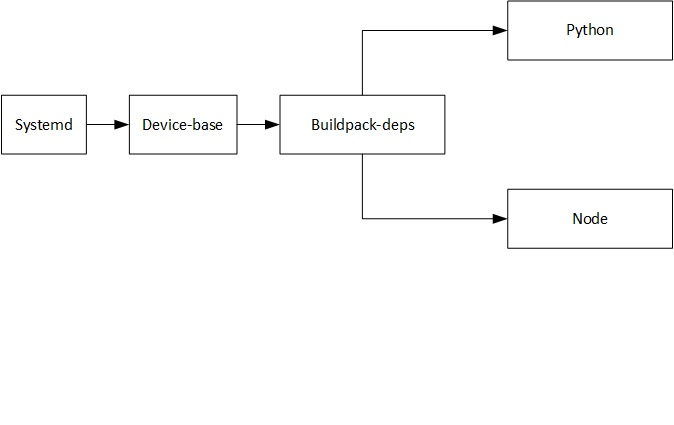
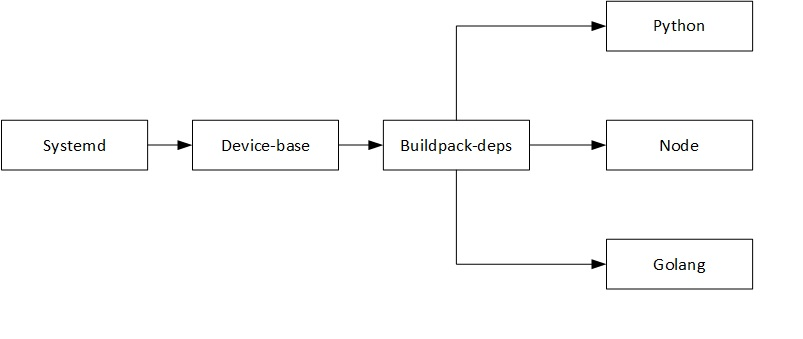
Add Changelog

diff --git a/README.md b/README.md
@@ -1,7 +1,7 @@
 # Resin.io systemd base images
 
 ## Description
-This repository contains Dockerfiles of the Resin systemd base images. The images are organised as a tree structure to serve each device type supported by Resin. For more details on how the images fit together as a tree, see the full document: [resin image trees][resin-image-trees]
+This repository contains Dockerfiles of the Resin systemd base images. The images are organised as a tree structure to serve each device type supported by Resin. For more details on how the images fit together as a tree, see the full document: [Resin Base Images][resin-image-trees]
 
 ## Directory Structure
 
@@ -12,6 +12,7 @@ This repository contains Dockerfiles of the Resin systemd base images. The image
 * Buildpack-deps: The buildpack-deps image for each device type. Details about buildpack-deps can be found [here][resin-buildpack-deps-link]
 * Node: The Node.js buildpack image for Node.js apps for each device type. Details about the Node.js image can be found [here][resin-node-link]
 * Python: The Python buildpack image for Python apps for each device type.
+* Golang: The Golang buildpack image for Go apps for each device type. Details about the Golang image can be found [here][resin-golang-link]
 
 ## Contribute
 
@@ -29,9 +30,10 @@ If you're having any problem, please [raise an issue][issue-tracker] on GitHub.
 * [i386 base image][i386-debian] (Ex: intel edison).
 * [amd64 base image][amd64-debian] (Ex: intel nuc)
 
-[resin-image-trees]:http://docs.resin.io/#/pages/configuration/resin-image-trees.md
+[resin-image-trees]:http://docs.resin.io/#/pages/runtime/resin-base-images.md
 [resin-buildpack-deps-link]:http://docs.resin.io/#/pages/runtime/resin-base-images.md#buildpack-deps
 [resin-node-link]:http://docs.resin.io/#/pages/runtime/resin-base-images.md#node
+[resin-golang-link]:http://docs.resin.io/#/pages/runtime/resin-base-images.md#golang
 [source-code]:https://github.com/resin-io-library/base-images
 [issue-tracker]:https://github.com/resin-io-library/base-images/issues
 [i386-debian]:https://github.com/resin-io-library/resin-i386-debian

diff --git a/CHANGELOG.md b/CHANGELOG.md
@@ -1,0 +1,103 @@
+# Change Log
+
+All notable changes to this project will be documented in this file.
+This project adheres to [Semantic Versioning](http://semver.org/).
+
+## 2015-10-13
+
+### Changed
+
+- Fix Go binary file name when download.
+
+
+## 2015-10-08
+
+### Changed
+
+- Add Golang images to base images.
+- Install mandatory packages: `python-virtualenv, python-setuptools` on python images.
+
+
+## 2015-09-22
+
+### Changed
+
+- Add images for new board: ts-4900.
+
+
+## 2015-09-11
+
+### Changed
+
+- Add `0.10.22` as default version to node images.
+- Add images for new boards: odroid-c1 odroid-ux3.
+- Add Node v4.0.0 to node images.
+- Fix issue with npm config on node images.
+
+
+## 2015-09-09
+
+### Changed
+
+- Fix bug with working directory of systemd service unit.
+- Add images for new boards: via-vab820-quad, zynq-xz702.
+
+## 2015-07-31
+
+### Changed
+
+- Mount /sys/kernel/debug FS on edison images.
+
+
+## 2015-07-31
+
+### Changed
+
+- Mount /sys/kernel/debug FS on edison images.
+
+
+## 2015-07-25
+
+### Changed
+
+- Stop installing systemd on wheezy images.
+
+
+## 2015-07-14
+
+### Changed
+
+- No longer support sid images.
+- Fix expired beaglebone gpg keys.
+- Install systemd on wheezy images.
+
+
+## 2015-07-14
+
+### Changed
+
+- No longer support sid images.
+- Fix expired beaglebone gpg keys.
+
+
+## 2015-07-09
+
+### Changed
+
+- Update all image name to yocto machine name convention.
+
+
+## 2015-06-11
+
+### Changed
+
+- Mount /dev as devtmpfs on systemd images.
+- Enable udev on systemd images.
+- Display warning message when no CMD command is set on node and python images.
+
+
+## 2015-06-10
+
+### Added
+
+- Release new version of Resin base images.
